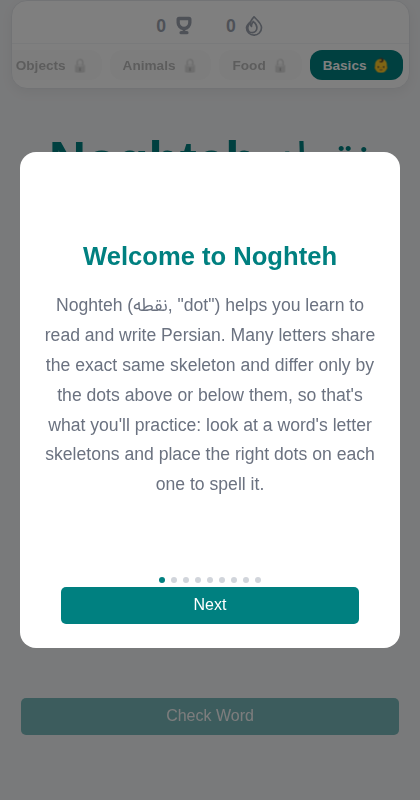
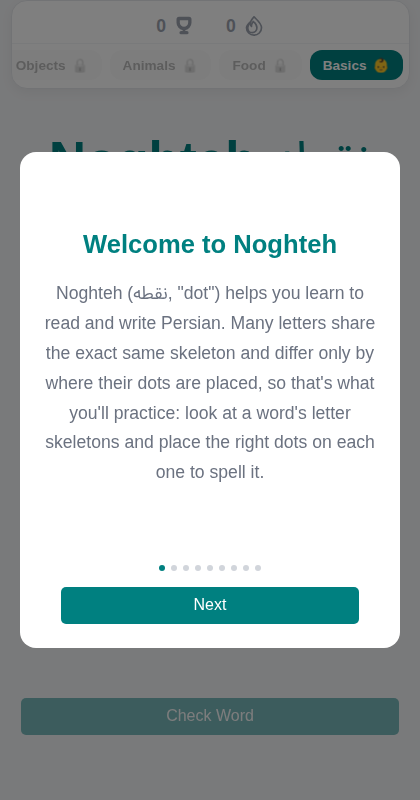
docs: say "placement of dots" instead of "above or below"
Some dots sit elsewhere than strictly above/below the base shape, so
"above or below" overclaimed. Both the welcome and family-slide copy
now just say placement, which covers every case.

Changed region(s): [[0.0929, 0.2812, 0.8976, 0.625], [0.4643, 0.6875, 0.619, 0.75]]

diff --git a/src/components/DotFamilyIntro.jsx b/src/components/DotFamilyIntro.jsx
@@ -16,8 +16,8 @@ const WelcomeSlide = () => (
     <h2>Welcome to Noghteh</h2>
     <p className="family-intro-copy">
       Noghteh (نقطه, "dot") helps you learn to read and write Persian. Many
-      letters share the exact same skeleton and differ only by the dots
-      above or below them, so that's what you'll practice: look at a word's
+      letters share the exact same skeleton and differ only by where their
+      dots are placed, so that's what you'll practice: look at a word's
       letter skeletons and place the right dots on each one to spell it.
     </p>
   </>
@@ -27,8 +27,8 @@ const FamilySlide = ({ family }) => (
   <>
     <h2>One Shape, Many Letters</h2>
     <p className="family-intro-copy">
-      Many Persian letters share the same base shape. Dots above or below
-      are the only thing that tells them apart.
+      Many Persian letters share the same base shape. The placement of
+      their dots is the only thing that tells them apart.
     </p>
     <div className="family-group">
       <div className="family-base">
